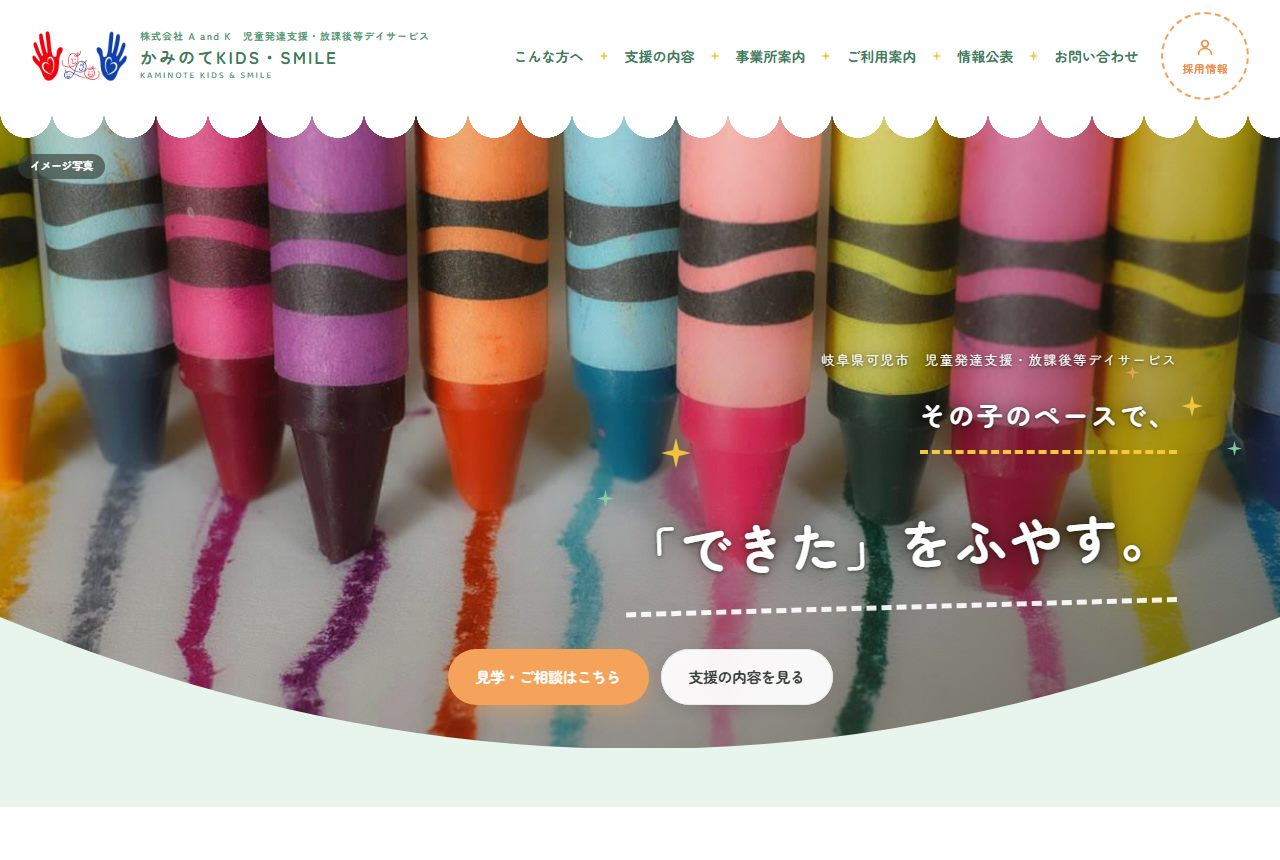
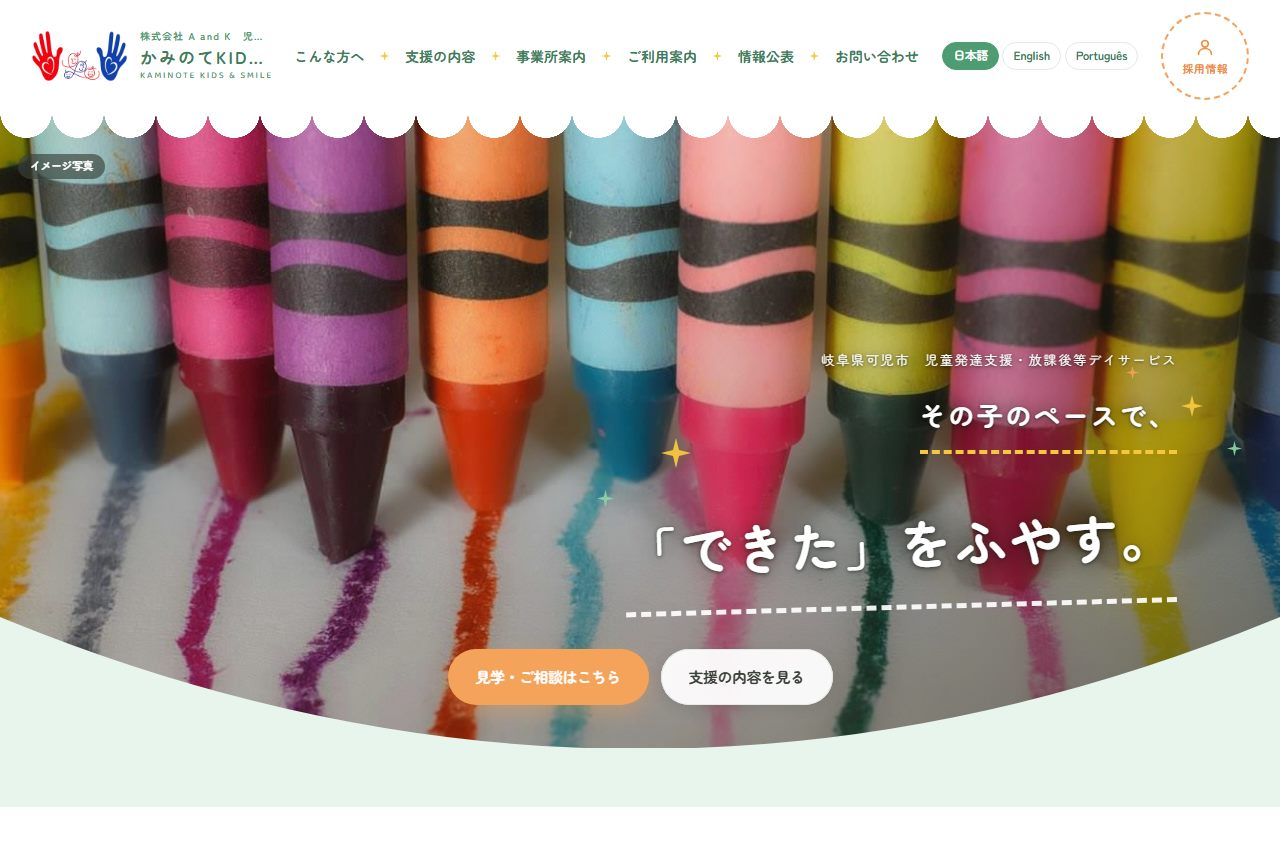
言語切り替えの説明を足し、キャプチャを撮り直す

Changed region(s): [[0.4062, 0.0302, 0.9062, 0.0907], [0.1875, 0.0302, 0.375, 0.0907]]

diff --git a/design.html b/design.html
@@ -627,6 +627,21 @@
       <p style="margin:0 0 1.4rem">いただいた<strong>かみのてKIDS・かみのてSMILEのロゴ</strong>も、3案とも使っています。
       写真はいずれも見本です。取材時に撮影したお写真へ差し替えます。</p>
 
+      <div class="callout" style="margin:0 0 2rem">
+        <h4>英語・ポルトガル語への切り替え</h4>
+        <p>
+          どちらのサイトも、ヘッダーの<strong>「English」「Português」</strong>を押すとページ全体がその言語に切り替わります。
+          6案すべてに入れてありますので、実物でお試しください。日本語に戻すボタンも並べています。
+          外国にルーツのあるご家庭が多い地域とうかがいましたので、
+          スマートフォンでもこのボタンだけは隠さず、いつも見える場所に置いています。
+        </p>
+        <p style="margin-top:.8rem">
+          いまの訳文は<strong>こちらで用意した仮のもの</strong>です。公開前に、ご関係の方に一度目を通していただけますと安心です。
+          とくに受給者証・企業主導型・情報公表といった制度の言葉は、訳し方で受け取られ方が変わります。
+          タガログ語・ビサヤ語も同じしくみで足せますので、ご希望があればお申しつけください。
+        </p>
+      </div>
+
       <div class="mock">
         <div class="mock-head">
           <h3>放課後等デイサイト　案A</h3>

diff --git a/src/design-kaminote.html b/src/design-kaminote.html
@@ -604,6 +604,21 @@
       <p style="margin:0 0 1.4rem">いただいた<strong>かみのてKIDS・かみのてSMILEのロゴ</strong>も、3案とも使っています。
       写真はいずれも見本です。取材時に撮影したお写真へ差し替えます。</p>
 
+      <div class="callout" style="margin:0 0 2rem">
+        <h4>英語・ポルトガル語への切り替え</h4>
+        <p>
+          どちらのサイトも、ヘッダーの<strong>「English」「Português」</strong>を押すとページ全体がその言語に切り替わります。
+          6案すべてに入れてありますので、実物でお試しください。日本語に戻すボタンも並べています。
+          外国にルーツのあるご家庭が多い地域とうかがいましたので、
+          スマートフォンでもこのボタンだけは隠さず、いつも見える場所に置いています。
+        </p>
+        <p style="margin-top:.8rem">
+          いまの訳文は<strong>こちらで用意した仮のもの</strong>です。公開前に、ご関係の方に一度目を通していただけますと安心です。
+          とくに受給者証・企業主導型・情報公表といった制度の言葉は、訳し方で受け取られ方が変わります。
+          タガログ語・ビサヤ語も同じしくみで足せますので、ご希望があればお申しつけください。
+        </p>
+      </div>
+
       <div class="mock">
         <div class="mock-head">
           <h3>放課後等デイサイト　案A</h3>
